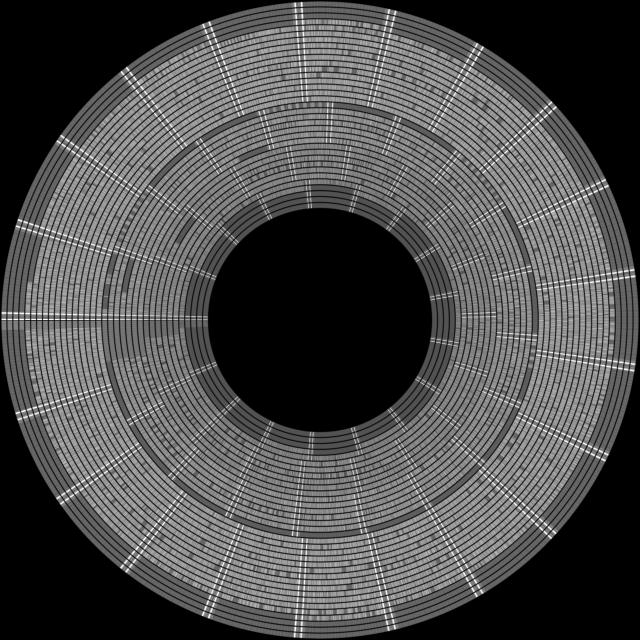
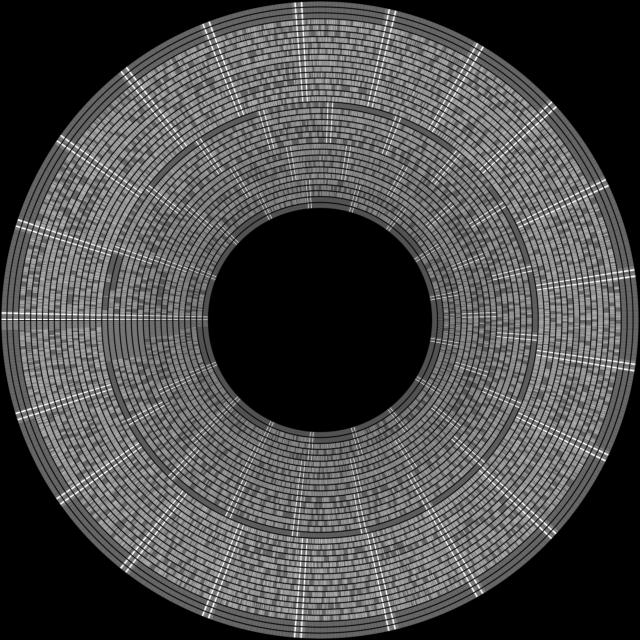
no need for external greaseweazle now

Changed region(s): [[0.0312, 0.0312, 0.9688, 0.9688]]

diff --git a/fluxvis/__main__.py b/fluxvis/__main__.py
@@ -21,9 +21,10 @@ from . import invpolar
 @click.option("--stacks", default=6, help="The pixel thickness of a track (default: 6)")
 @click.option(
     "--diameter",
-    default=108.0,
-    help="The diameter of the outermost track, in track-widths"
-    '(5.25" disk is approximately 108, 3.5" disk is approximately 210 (default: 108)',
+    default=216.0,
+    help="The diameter of the outermost track, in track-widths."
+    'A 5.25" HD disk is approximately 216, 3.5" HD disk is approximately 420. '
+    "Halve for DD. (default: 216)",
 )
 @click.option("--tracks", default=80, help="The total count of tracks (default: 80)")
 @click.option("--stride", default=1, help="Stride between tracks (default: 1)")

diff --git a/README.md b/README.md
@@ -20,9 +20,7 @@ Visualization of a Commodore 1541 floppy as mastered by fluxengine:
 
  * `pip install -r requirements.txt`
 
- * Clone/download [greaseweazle](https://github.com/keirf/greaseweazle) and add `.../greaseweazle/scripts` to PYTHONPATH.
-
- * Get your flux in `.scp` format.
+ * Get your flux in a greaseweazle-compatible format such as `.scp`.
 
  * Use a commandline like
    ```
